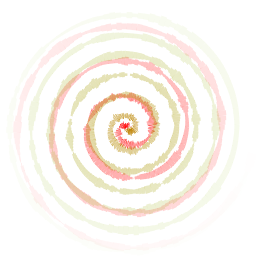
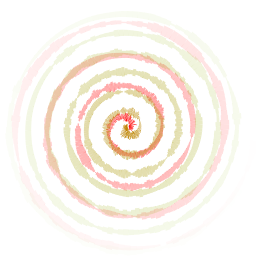
Added -rs option and fixed speargraphic tests to make use of random seed option

Changed region(s): [[0.0938, 0.0938, 0.9062, 0.9062], [0.3438, 0.8438, 0.375, 0.875], [0.2812, 0.8125, 0.3125, 0.8438]]

diff --git a/test/TestSpearGraphic.cs b/test/TestSpearGraphic.cs
@@ -18,15 +18,23 @@ namespace test
 
 		[DataTestMethod]
 		[DynamicData(nameof(GetData), DynamicDataSourceType.Method)]
-		public void SpearGraphic(int index)
+		public void SpearGraphic(int index, double closeness = 0.0)
 		{
-			Helpers.RunTestGenerator(Which, index, this);
+			Func<string,string,bool> func = null;
+			if (closeness > double.Epsilon) {
+				func = (a,b) => {
+					double d = Helpers.ImageDistance(a,b);
+					Console.WriteLine($"{a} vs {b} dist = {d}");
+					return d < closeness;
+				};
+			}
+			Helpers.RunTestGenerator(Which, index, this, func);
 		}
 
 		public static IEnumerable<object[]> GetData()
 		{
 			for(int i=0; i<_CaseCount; i++) {
-				yield return new object[] { i };
+				yield return new object[] { i, GetAccuracy(i) };
 			}
 		}
 		const int _CaseCount = 9;
@@ -44,10 +52,20 @@ namespace test
 			case 4: return new string[] { "-g","Second_Twist3b"};
 			case 5: return new string[] { "-g","Second_Twist3c"};
 			case 6: return new string[] { "-g","Second_Twist4"};
-			case 7: return new string[] { "-g","Third"};
-			case 8: return new string[] { "-g","Fourth"};
+			case 7: return new string[] { "-g","Third","-rs","531"};
+			case 8: return new string[] { "-g","Fourth","-rs","531"};
 			}
 			return null;
+		}
+
+		static double GetAccuracy(int index)
+		{
+			switch(index)
+			{
+			case 7: return 0.01;
+			case 8: return 0.01;
+			}
+			return 0.0;
 		}
 
 		public string GetOutName(int index)

diff --git a/src/SpearGraphic/Third.cs b/src/SpearGraphic/Third.cs
@@ -9,8 +9,10 @@ namespace ImageFunctions.SpearGraphic
 {
 	public static class Third<TPixel> where TPixel : struct, IPixel<TPixel>
 	{
-		public static void Twist1(Image<TPixel> image, int w, int h)
+		public static void Twist1(Image<TPixel> image, int w, int h, int? seed = null)
 		{
+			InitRandom(seed);
+
 			int reps = 100;
 			int margin = 10;
 			DPoint curr = new DPoint(Random(margin,w-margin),Random(margin,h-margin));
@@ -198,23 +200,26 @@ namespace ImageFunctions.SpearGraphic
 			return (E)((object)i);
 		}
 
+		static void InitRandom(int? seed = null)
+		{
+			if (rnd == null) {
+				if (!seed.HasValue) {
+					seed = (int)(DateTime.Now.Ticks - DateTime.Today.Ticks);
+				}
+				rnd = new Random(seed.Value);
+			}
+		}
+
 		static Random rnd = null;
 		static int Random(int low, int high)
 		{
-			int seed = (int)(DateTime.Now.Ticks - DateTime.Today.Ticks);
-			if (rnd == null) {
-				rnd = new Random(seed);
-			}
+			InitRandom();
 			return rnd.Next(low,high);
 		}
 
 		static double Random(double low, double high)
 		{
-			int seed = (int)(DateTime.Now.Ticks - DateTime.Today.Ticks);
-			if (rnd == null) {
-				rnd = new Random(seed);
-			}
-
+			InitRandom();
 			return rnd.NextDouble() * (high-low) + low;
 		}
 	}

diff --git a/src/SpearGraphic/Fourth.cs b/src/SpearGraphic/Fourth.cs
@@ -9,8 +9,10 @@ namespace ImageFunctions.SpearGraphic
 {
 	public static class Fourth<TPixel> where TPixel : struct, IPixel<TPixel>
 	{
-		public static void Draw(Image<TPixel> image,int w,int h)
+		public static void Draw(Image<TPixel> image,int w,int h, int? seed = null)
 		{
+			InitRandom(seed);
+
 			var p1 = new Twist1Params {
 				RadRateMax = 0.5
 				,RadRatemin = 0.01
@@ -253,23 +255,26 @@ namespace ImageFunctions.SpearGraphic
 			return new Point(Random(0,w),Random(0,h));
 		}
 		
+		static void InitRandom(int? seed = null)
+		{
+			if (rnd == null) {
+				if (!seed.HasValue) {
+					seed = (int)(DateTime.Now.Ticks - DateTime.Today.Ticks);
+				}
+				rnd = new Random(seed.Value);
+			}
+		}
+
 		static Random rnd = null;
 		static int Random(int low, int high)
 		{
-			int seed = (int)(DateTime.Now.Ticks - DateTime.Today.Ticks);
-			if (rnd == null) {
-				rnd = new Random(seed);
-			}
+			InitRandom();
 			return rnd.Next(low,high);
 		}
 
 		static double Random(double low, double high)
 		{
-			int seed = (int)(DateTime.Now.Ticks - DateTime.Today.Ticks);
-			if (rnd == null) {
-				rnd = new Random(seed);
-			}
-
+			InitRandom();
 			return rnd.NextDouble() * (high-low) + low;
 		}
 	}

diff --git a/src/SpearGraphic/Function.cs b/src/SpearGraphic/Function.cs
@@ -37,6 +37,13 @@ namespace ImageFunctions.SpearGraphic
 					}
 					O.BackgroundColor = c;
 				}
+				else if (curr == "-rs" && ++a<len) {
+					if (!OptionsHelpers.TryParse<int>(args[a],out int rnd)) {
+						Log.Error($"invalid number {curr}");
+						return false;
+					}
+					O.RandomSeed = rnd;
+				}
 				else if (OutImage == null) {
 					OutImage = curr;
 				}
@@ -57,6 +64,7 @@ namespace ImageFunctions.SpearGraphic
 			sb.AppendLine(" Creates a spear graphic");
 			sb.AppendLine(" -g (name)                   Choose which graphic to create");
 			sb.AppendLine(" -bg (color)                 Change Background color (default transparent)");
+			sb.AppendLine(" -rs (number)                Random Int32 seed value (defaults to system picked)");
 			sb.AppendLine();
 			sb.AppendLine(" Available Graphics");
 

diff --git a/src/SpearGraphic/Processor.cs b/src/SpearGraphic/Processor.cs
@@ -40,9 +40,9 @@ namespace ImageFunctions.SpearGraphic
 			case Graphic.Second_Twist4:
 				Second<TPixel>.Twist4(img,img.Width,img.Height); break;
 			case Graphic.Third:
-				Third<TPixel>.Twist1(img,img.Width,img.Width); break;
+				Third<TPixel>.Twist1(img,img.Width,img.Width,O.RandomSeed); break;
 			case Graphic.Fourth:
-				Fourth<TPixel>.Draw(img,img.Width,img.Height); break;
+				Fourth<TPixel>.Draw(img,img.Width,img.Height,O.RandomSeed); break;
 			}
 		}
 	}

diff --git a/src/SpearGraphic/Options.cs b/src/SpearGraphic/Options.cs
@@ -21,5 +21,6 @@ namespace ImageFunctions.SpearGraphic
 	{
 		public Graphic Spear = Graphic.None;
 		public Color BackgroundColor = Color.Transparent;
+		public int? RandomSeed = null;
 	}
 }
